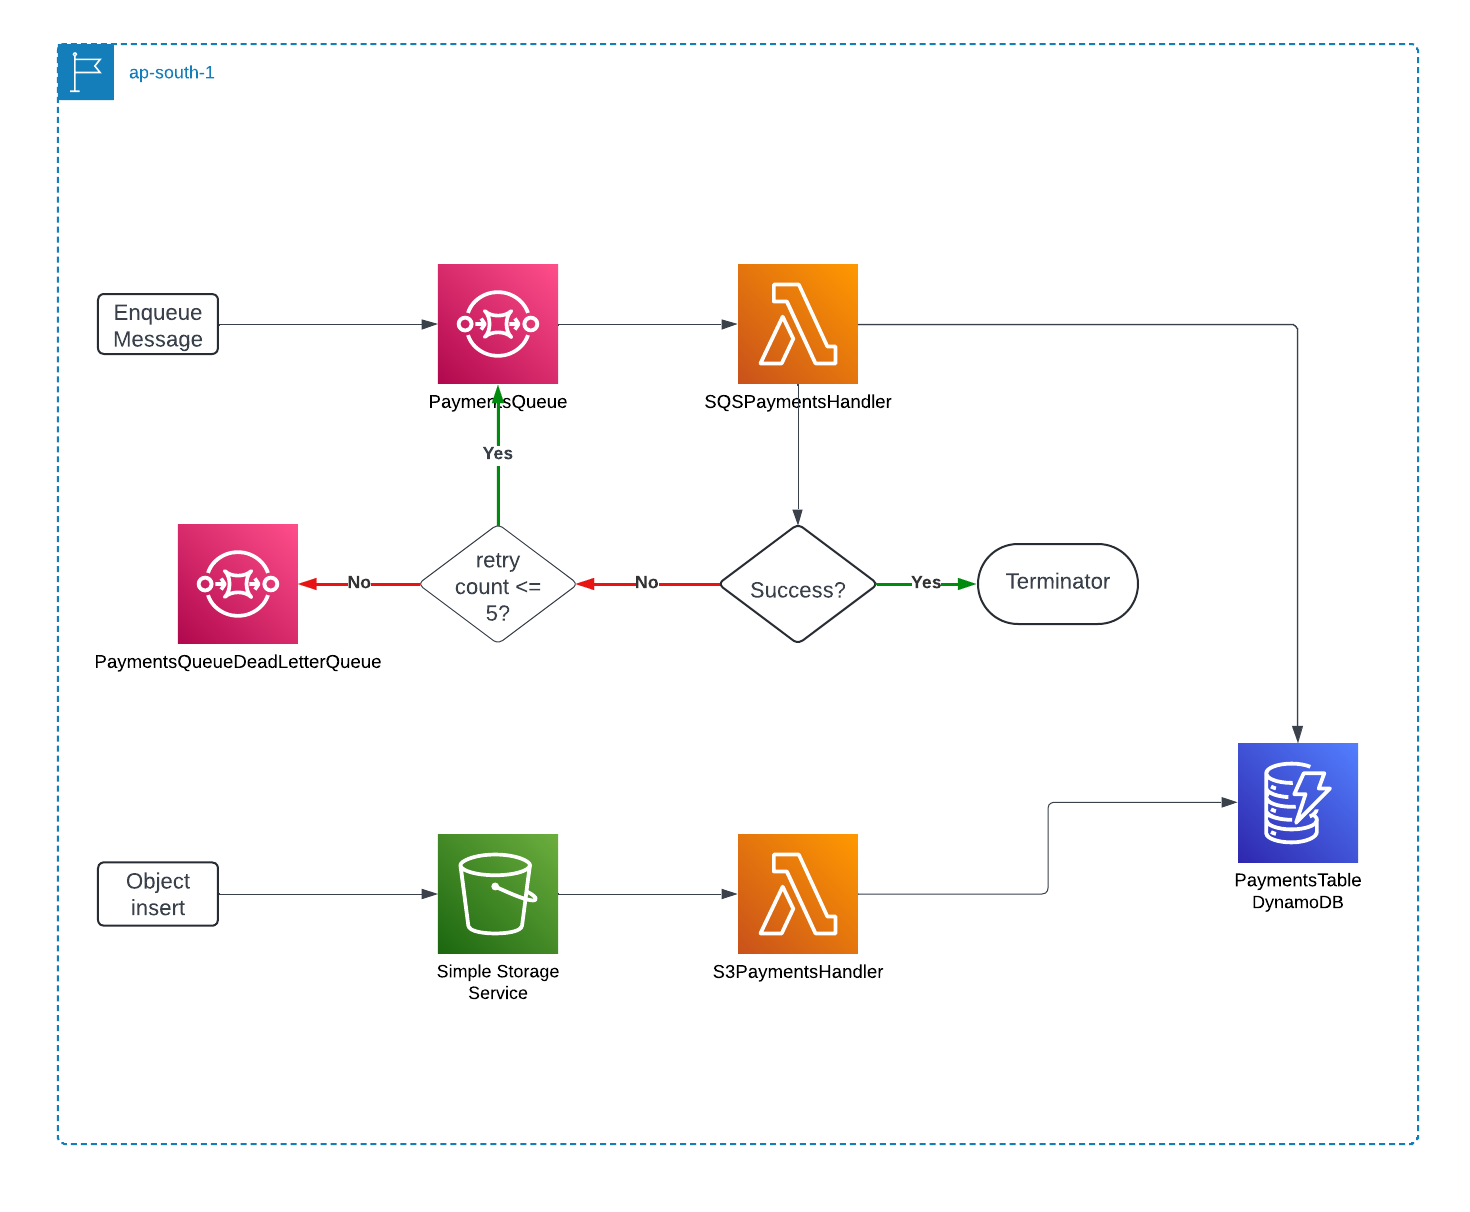
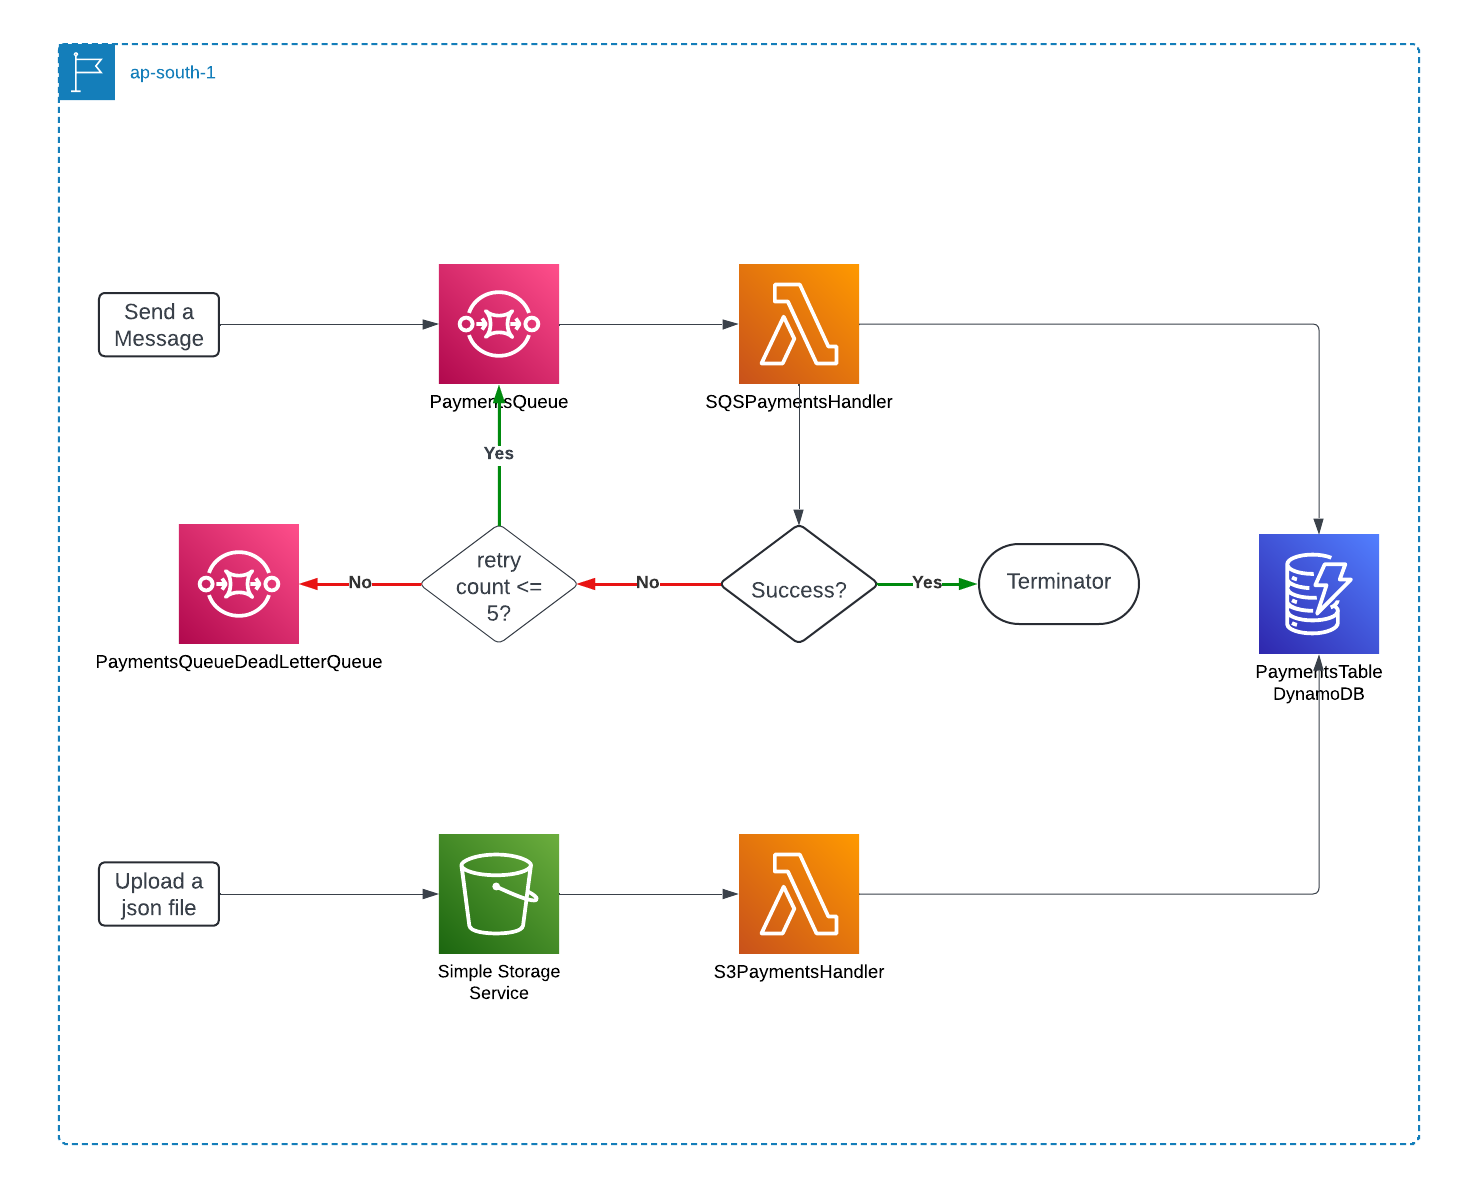
updated ReadMe file

diff --git a/README.md b/README.md
@@ -27,10 +27,17 @@ $ serverless deploy
 ### Invocation
 
 1. Send a message to payments.fifo queue from AWS console. An example message can be found in sample.json file
-2. Upload a json file to all-payments S3 bucket
+2. Upload a json file to all-payments S3 bucket. An example json file is sample.json file
 3. The aggreagated data can be found in Payments DynamoDB
+4. Access payment-manager-dev-SQSPaymentsHandler and payment-manager-dev-S3PaymentsHandler cloudwatch log groups for monitoring the logs. 
 
 
 ### Architecture
+
+## Decisions
+1. Implemented the redrive policy to retry processing the messages published to SQS and eventually persist the failed messages in the dead letter queue.
+2. Used a FIFO queue to maintain the order of the received messages.
+3. Returned the batch failure items after processing the SQS events to avoid processing the successful events again.
+4. Introduced environment variables to Lambda functions to avoid deployments when changing the variable values.
 
 ![screenshot](Architecture.png)
